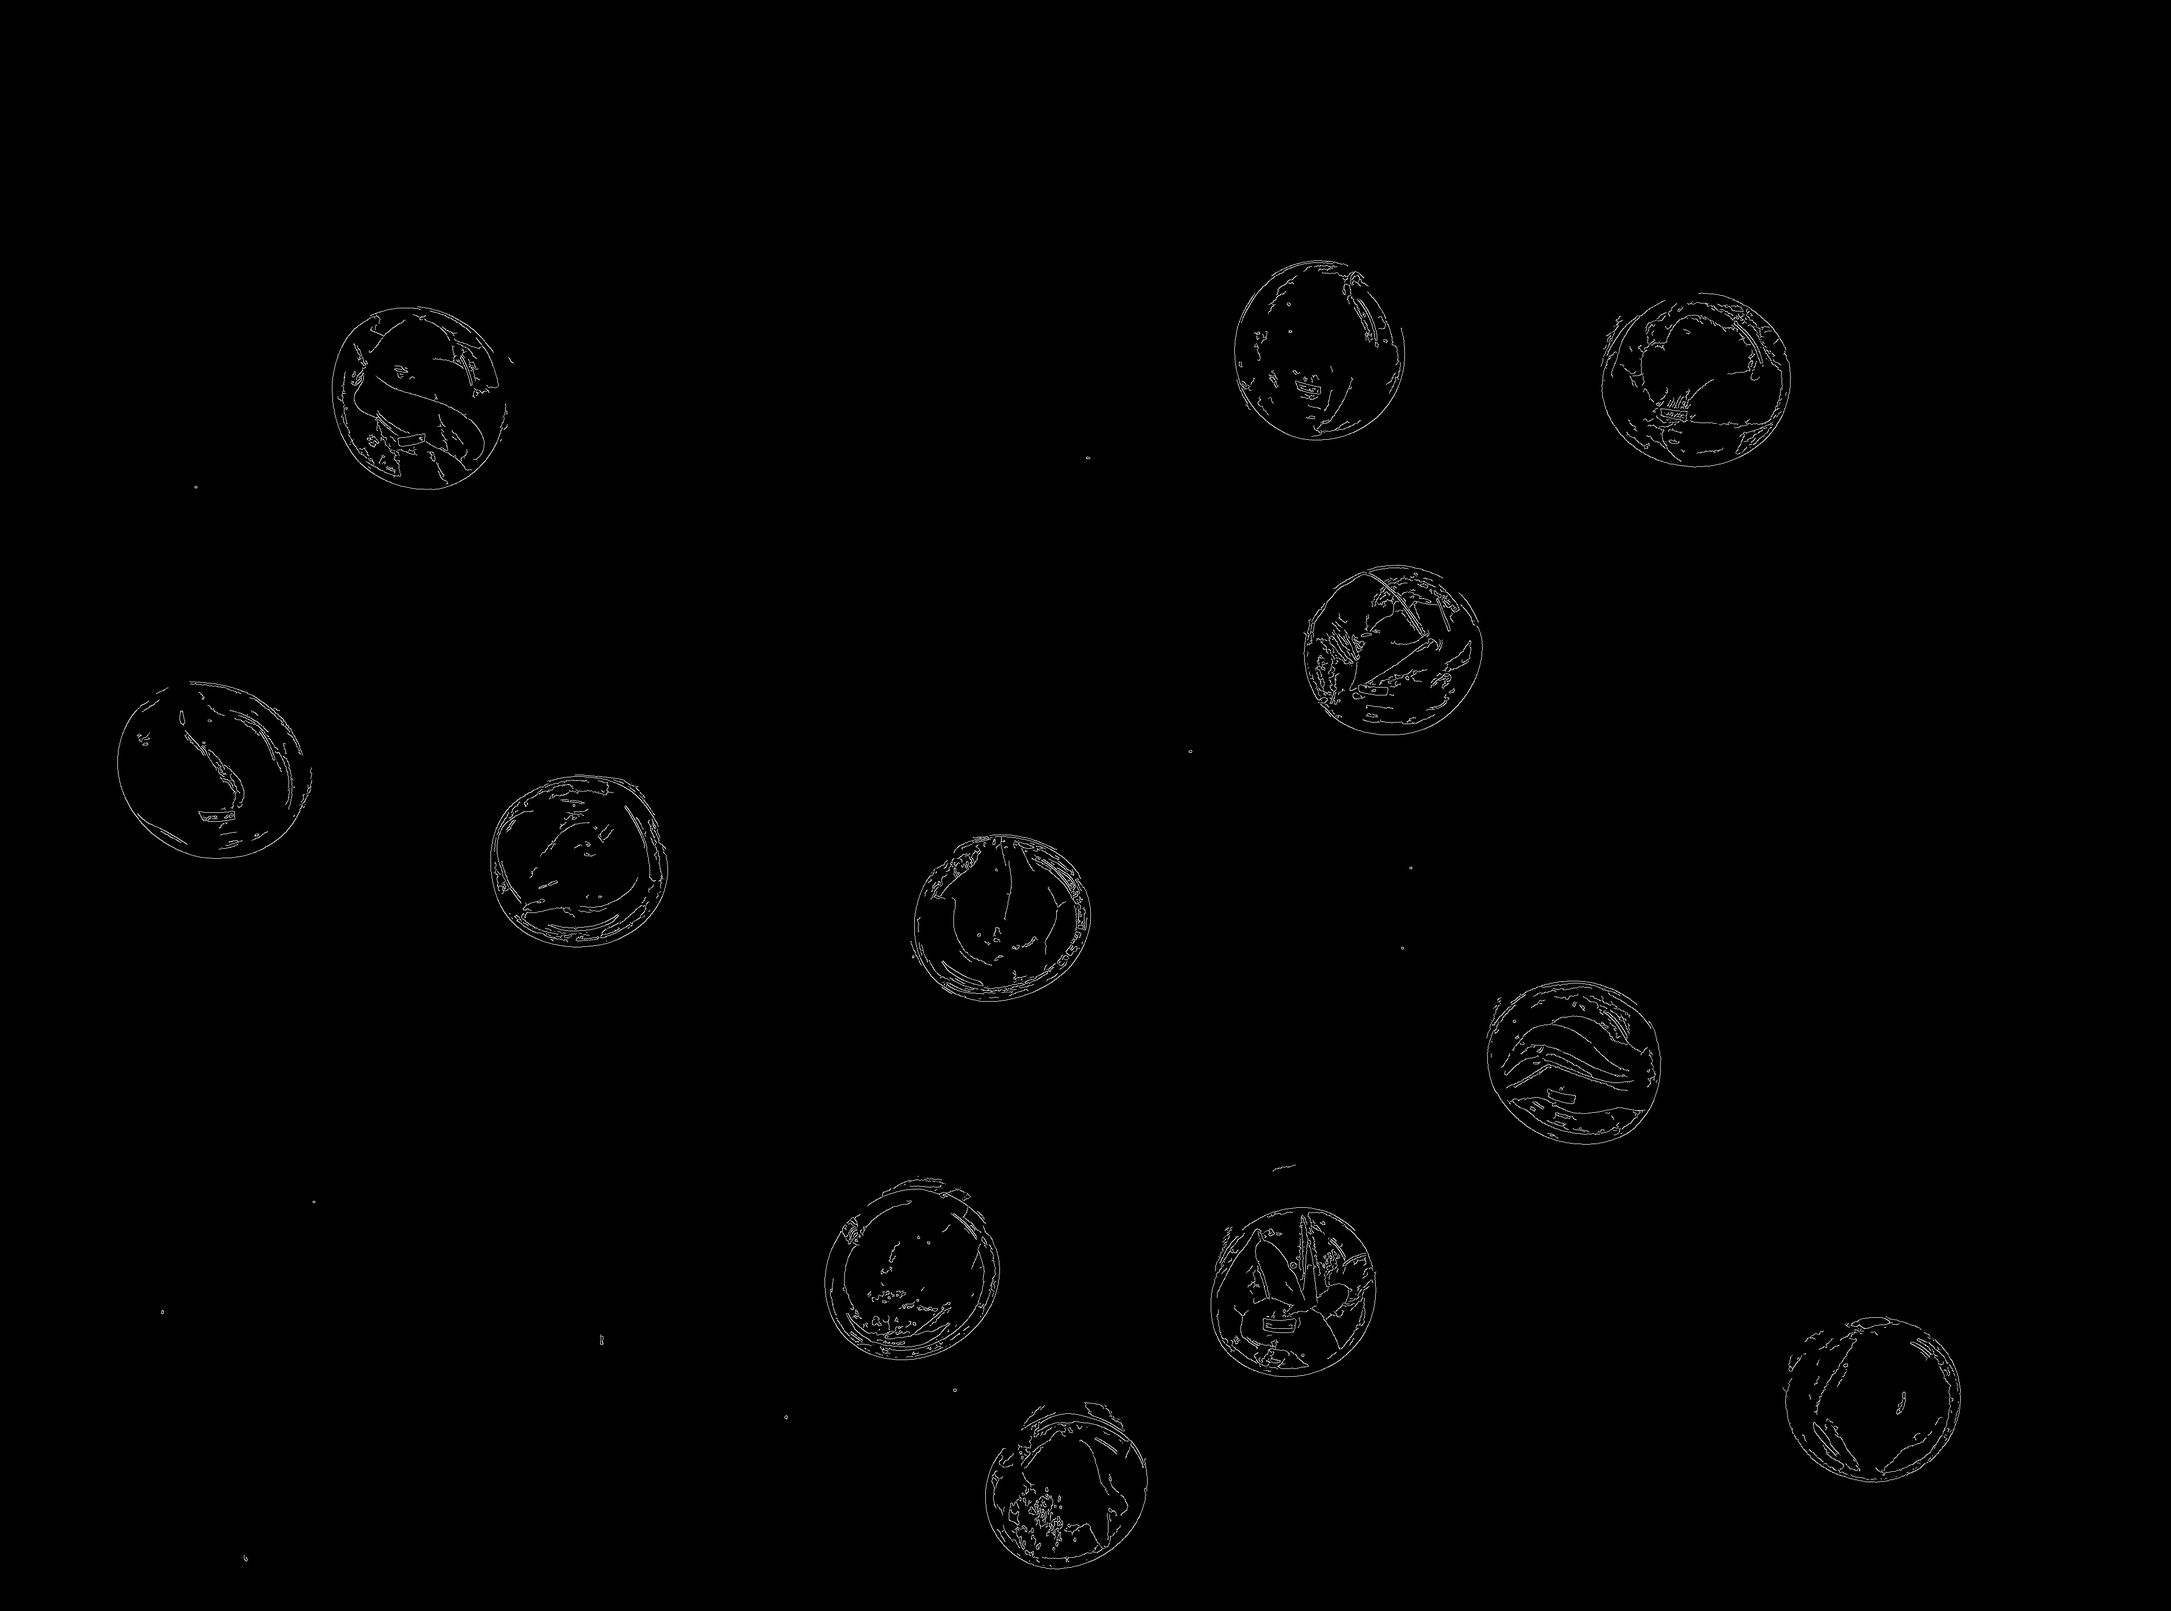
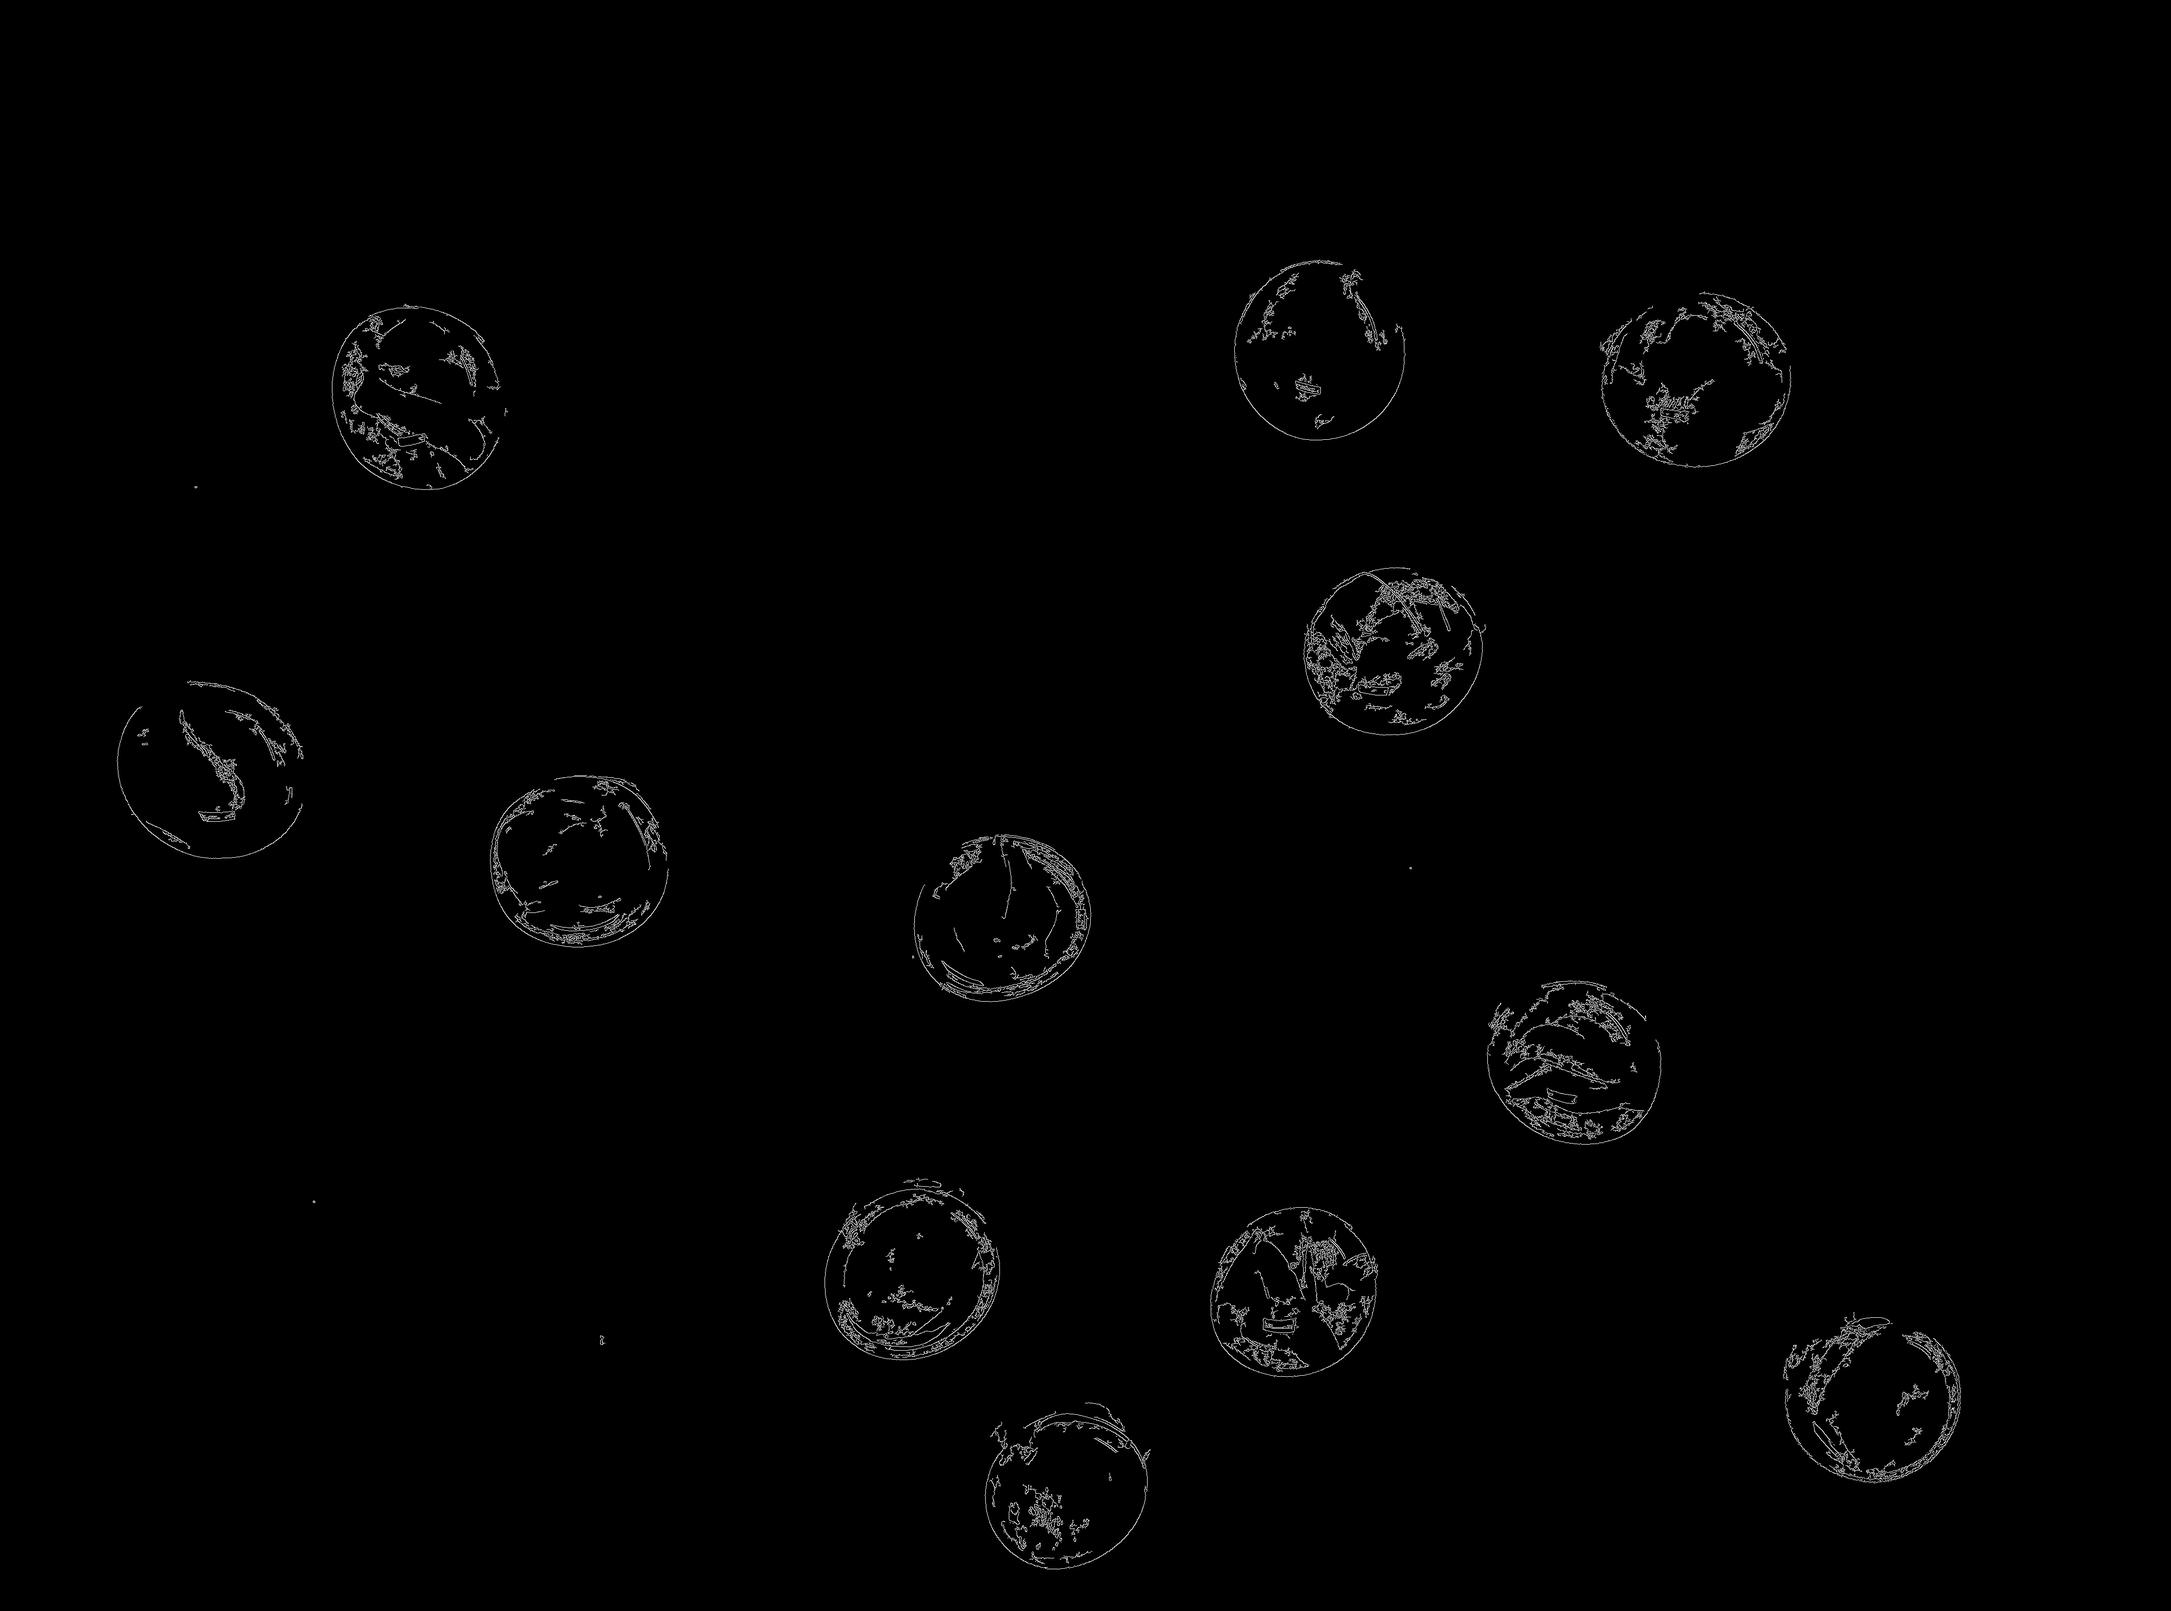
finished edge detection, started contours

diff --git a/code/08-contours/Contours.py b/code/08-contours/Contours.py
@@ -1,0 +1,35 @@
+'''
+ * Python program to find the contours in an image.
+'''
+import cv2, sys, numpy as np
+
+# read command-line arguments
+filename = sys.argv[1]
+
+# read original image
+img = cv2.imread(filename, cv2.IMREAD_GRAYSCALE)
+
+cv2.namedWindow("output", cv2.WINDOW_NORMAL)
+#cv2.imshow("output", img)
+#cv2.waitKey(0)
+
+# create binary image
+blur = cv2.GaussianBlur(img, (5, 5), 0)
+(t, binary) = cv2.threshold(blur, 210, 255, cv2.THRESH_BINARY_INV)
+
+#cv2.imshow("output", binary)
+#cv2.waitKey(0)
+
+# find contours
+(cImg, contours, hierarchy) = cv2.findContours(binary, cv2.RETR_TREE, 
+	cv2.CHAIN_APPROX_SIMPLE)
+
+print(len(contours))
+
+# draw contours 
+final = np.zeros(binary.shape, dtype = "uint8")
+final = cv2.merge([final, final, final])
+cv2.drawContours(final, contours, -1, (255, 0, 0), 3)
+
+cv2.imshow("output", final)
+cv2.waitKey(0)

diff --git a/code/07-edge-detection/CannyEdge.py b/code/07-edge-detection/CannyEdge.py
@@ -8,6 +8,7 @@ import cv2, sys
  * result. 
 '''
 def cannyEdge():
+	global img, minT, maxT
 	edge = cv2.Canny(img, minT, maxT)
 	cv2.imshow("edges", edge)
 

diff --git a/episodes/07-edge-detection.md b/episodes/07-edge-detection.md
@@ -13,12 +13,13 @@ keypoints:
 In this episode, we will learn how to use OpenCV functions to apply *edge 
 detection* to an image. In edge detection, we find the boundaries or edges of
 objects in an image, by determining where the brightness of the image changes
-dramtically. Edge detection can be used to extract the structure of objects in 
+dramatically. Edge detection can be used to extract the structure of objects in 
 an image. If we are interested in the number, size, shape, or relative location
 of objects in an image, edge detection allows us to focus on the parts of the 
 image most helpful, while ignoring parts of the image that will not help up. 
 
-For example, once we have found the edges of the objects in the image, we can 
+For example, once we have found the edges of the objects in the image (or once
+we have converted the image to binary using thresholding), we can 
 use that information to find the image *contours*, which we will learn about in
 the following [Contours]({{ page.root }}./08-contours.md) episode. With the 
 contours, we can do things like counting the number of objects in the image,
@@ -56,7 +57,7 @@ appropriately-colored pixels in that location.
 
 *Sobel edge detection* uses numerical approximations of derivatives to detect
 edges in an image. Here is an example of how the process might work. If we look
-at the gradient plot above, we shall see that its shape reoughly corresponds to
+at the gradient plot above, we shall see that its shape roughly corresponds to
 the sigmoid function, as shown by the purple line in this plot:
 
 ![Sigmoid function and derivative](../fig/07-sigmoid.png)
@@ -271,7 +272,7 @@ with blur kernel k = 3 and binary threshold value t = 210:
 
 ## Canny edge detection and trackbars
 
-We will introduce one more type of edge detection suppored by OpenCV in this 
+We will introduce one more type of edge detection supported by OpenCV in this 
 section, *Canny edge detection*, created by John Canny in 1986. This method 
 uses a series of steps, many of which we have already discussed. The OpenCV
 `cv2.Canny()` method uses the following steps:
@@ -283,19 +284,57 @@ from the image.
 the intensity gradients of the edges in the image.
 
 3. Pixels that would be highlighted, but seem too far from any edge, are 
-removed. This is called *non-maximum supression*, and the result is edge lines
+removed. This is called *non-maximum suppression*, and the result is edge lines
 that are thinner.
 
-4. Apply a double threshold to determine potential edges.
+4. Apply a double threshold to determine potential edges. Here extraneous 
+pixels caused by noise or milder color variation than desired are eliminated.
+If a pixel's gradient value -- based on the Sobel differential -- is above the
+high threshold value, it is considered a strong candidate for an edge. If the 
+gradient is below the low threshold value, it is turned off. If the gradient is
+in between, the pixel is considered a weak candidate for an edge pixel. 
 
-5. Perform final detection of edges using *hysteresis*. 
+5. Perform final detection of edges using *hysteresis*. Here, weak candidate 
+pixels are examined, and if they are connected to strong candidate pixels, they
+are considered to be edge pixels; The remaining, non-connected weak candidates 
+are turned off.
 
+For a user of the `cv2.Canny()` edge detection method, the two important 
+parameters to pass in are the low and high threshold values used in step four
+of the process. These values generally are determined empirically, based on the
+contents of the image(s) to be processed. 
+
+Here is an image of some glass beads that we can use as input into a Canny edge
+detection program:
 
 ![Beads image](../fig/07-beads.jpg)
 
+We could write a simple Python program to apply Canny edge detection to the 
+image, very similar to the one using the Sobel method above. Such a program 
+would take three command-line arguments: the filename, the low threshold, and
+the high threshold required by the Canny method. To find acceptable values for
+the thresholds, we would have to run the program over and over again, trying 
+different threshold values and examining the resulting image, until we find a 
+combination of parameters that works best for the image.
+
+*Or*, we can write a Python program that uses OpenCV *trackbars*, that allow us
+to vary the low and high threshold parameters while the program is running. In 
+other words, we can write a program that presents us with a window like this:
+
+![Canny UI](../fig/07-canny-ui.png)
+
+Then, when we run the program, we can use the trackbar sliders to vary the 
+values of the threshold parameters until we are satisfied with the results. 
+After we have determined suitable values for the threshold parameters, we can 
+write a simpler program to utilize the parameters without bothering with the 
+user interface and trackbars. 
+
+Here is a Python program that shows how to apply Canny edge detection, and how
+to add trackbars to the user interface: 
+
 ~~~
 '''
- * Python script to demonstrate Canny edge detection.
+ * Python program to demonstrate Canny edge detection.
 '''
 import cv2, sys
 
@@ -304,6 +343,7 @@ import cv2, sys
  * result. 
 '''
 def cannyEdge():
+	global img, minT, maxT
 	edge = cv2.Canny(img, minT, maxT)
 	cv2.imshow("edges", edge)
 
@@ -347,11 +387,125 @@ cv2.waitKey(0)
 ~~~
 {: .python}
 
-Here is what the user interface created by the program looks like.
+There are four parts to this program, making it a bit (but only a *bit*) more 
+complicated that the programs we have looked at so far. The added complexity 
+comes from three *functions* we have written. From top to bottom, the
+parts are:
 
-![Canny UI](../fig/07-canny-ui.png)
+* The `cannyEdge()` function, 
+* The `adjustMin()` function, 
+* the `adjustMax()` function, and
+* The main program, i.e., the code that is executed when the program runs.
+
+We will look at the main program part first, and then return to the three 
+functions. The first several lines of the main program are easily recognizable
+at this point: saving the command-line argument, reading the image in 
+grayscale, and creating a window. Then, the program creates two variables to
+hold first guesses for the low and high threshold values, `minT` and `maxT`. 
+
+Next comes the code where we attach two trackbars to the display window named
+"edges".
+
+~~~
+cv2.createTrackbar("minT", "edges", minT, 255, adjustMinT)
+cv2.createTrackbar("maxT", "edges", maxT, 255, adjustMaxT)
+~~~
+{: .python}
+
+The `cv2.createTrackbar()` method takes five parameters. First is a string 
+containing the label that will be used for the trackbar when it is displayed. 
+Next is a string containing the name of the window the trackbar should be 
+attached to. Third is the initial value for the trackbar. Fourth is the maximum
+value for the trackbar; the minimum is always 0. Finally, we pass in the name 
+of a function that will be called whenever the value of the trackbar is changed
+by the user. Here we pass in `adjustMinT` for the minimum threshold trackbar 
+and `adjustMaxT` for the maximum threshold trackbar. 
+
+The last two lines of our program perform the initial Canny edge detection,
+by calling the `cannyEdge()` function, and then instruct OpenCV to keep the 
+"edges" window open until a key is pressed. 
+
+Now we can cover the details of the three functions in this program. First, 
+consider the `cannyEdge()` function:
+
+~~~
+def cannyEdge():
+	global img, minT, maxT
+	edge = cv2.Canny(img, minT, maxT)
+	cv2.imshow("edges", edge)
+~~~
+{: .python}
+
+This function actually performs the edge detection, via a call to the 
+`cv2.Canny()` method. First, however, the `global` line indicates that the 
+`img`, `minT`, and `maxT` variables are *global*, that is, that they were 
+created in the main program, rather than inside this function. Including this
+line in functions that refer to variables that were created elsewhere makes 
+sure that the variables' values are available inside the function. 
+
+The next line calls the `cv2.Canny()` method to do edge detection. The three
+parameters to the method are the variable holding the input image, the minimum
+threshold value, and the maximum threshold value. The method returns the output
+image, which we store in a variable named `edge`. 
+
+After the edge detection process is complete, the edge image is displayed in 
+the window named "edges." Recall that this window was already created in the 
+main program. 
+
+Now, let us examine one of the trackbar callback functions, `adjustMinT()`, in
+detail.
+
+~~~
+def adjustMinT(v):
+	global minT
+	minT = v
+	cannyEdge()
+~~~
+{: .python} 
+
+This function has a single *parameter*, which we have named `v`. The parameter
+is used to communicate the value of the minimum threshold trackbar when the 
+function is called. For example, for the image of the user interface above, the
+last time the minimum threshold trackbar was adjusted, the `adjustMinT()` 
+function was called and the parameter `v` had the value 20. 
+
+The first line in the function is a `global` statement, telling the function 
+that the variable `minT` is global. Then, we change the value of `minT` to the
+value contained in `v`, so that the minimum threshold variable `minT` contains 
+the new value set by the trackbar. Finally, the `cannyEdge()` function is 
+called again, to re-do the edge detection process and display the results in 
+the "edges" window. 
+
+The `adjustMaxT()` function is very similar. It changes the value of the `maxT`
+variable based on the value of the maximum threshold trackbar. 
 
 Here is the result of running the preceding program on the beads image, with
-minimum threshold value 20 and maximum threshold value 50. 
+minimum threshold value 20 and maximum threshold value 120. 
 
 ![Beads edges](../fig/07-beads-edges.jpg)
+
+> ## Applying Canny edge detection to another image
+> 
+> Now, navigate to the **Desktop/workshops/image-processing/07-edge-detection**
+> directory, and run the **CannyEdge.py** program on the image of colored 
+> shapes, **junk.jpg**. Adjust the minimum and maximum threshold trackbars
+> to produce an edge image that looks like this:
+> 
+> ![Colored shape edges](../fig/07-canny-junk-edges.jpg)
+> 
+> What values for the minimum and maximum threshold values did you use to 
+> produce an image similar to the one above? 
+> 
+> > ## Solution
+> > 
+> > The colored shape edge image above was produced with a minimum threshold
+> > value of 90 and a maximum threshold value of 190. You may be able to 
+> > achieve similar results with other threshold values.
+> {: .solution}
+{: .challenge}
+
+Keep this trackbar technique in your image processing "toolbox." You can use 
+trackbars to vary other kinds of parameters, such as blur kernel sizes, binary
+thresholding values, and so on. A few minutes developing a program to tweak 
+parameters like this can save you the hassle of repeatedly running a program
+from the command line with different parameter values. 

diff --git a/episodes/08-contours.md b/episodes/08-contours.md
@@ -11,4 +11,16 @@ keypoints:
 ---
 
 In this episode, we will learn how to use OpenCV functions to find the 
-*contours* of the objects in an image.
+*contours* of the objects in an image. A countour is a closed curve of points,
+representing the boundaries of an object in an image. A single object in an
+image may produce several associated contours, which are returned in a 
+hierarchial data structure. Once we find the countours of the objects in an 
+image, we can do things like determine the number of objects in an image, 
+classify the shapes of the objects, or measure the size of the objects. The 
+input to the contour-finding process is a binary image, which we will produce
+by first applying thresholding and / or edge detection. In the binary image,
+the objects we wish to detect should be white, while the background of the 
+image should be black.
+
+
+
